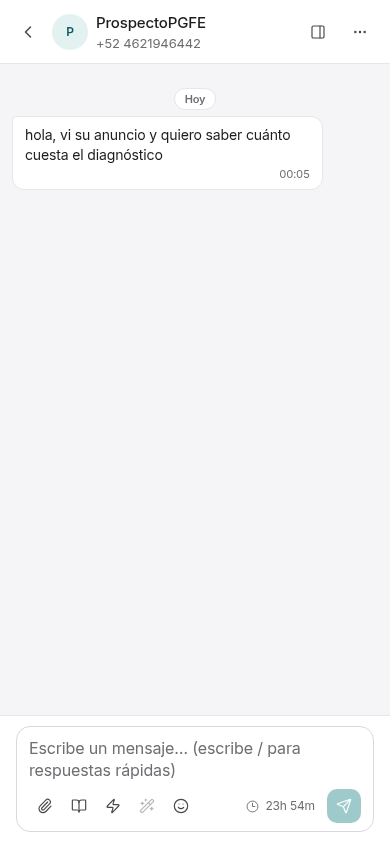
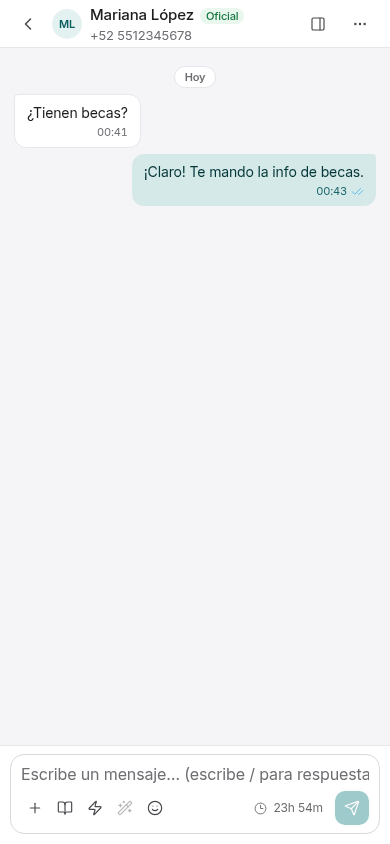
style: alinear móvil con la lámina 42 de ronda 3

diff --git a/src/app/globals.css b/src/app/globals.css
@@ -1133,7 +1133,7 @@ html[data-lite] .usage-modal { animation: none; }
    del scroll de mensajes; no se superpone a la navegación del cascarón. */
 @media (max-width: 767px) {
   .inbox-list-header .seg { flex-shrink: 1; }
-  .inbox-list-header .seg-item { padding-inline: 8px; font-size: 12px; }
+  .inbox-list-header .seg-item { height: 30px; padding-inline: 10px; font-size: 13px; }
   .inbox-list-header .btn-r3.ic { width: 32px; }
   .inbox-list-header > div:last-child { gap: 2px; }
   .inbox-filter-strip {
@@ -1146,14 +1146,36 @@ html[data-lite] .usage-modal { animation: none; }
     flex-shrink: 0;
     padding-block: 4px;
   }
-  .inbox-quick-filters > button { flex-shrink: 0; white-space: nowrap; }
+  .inbox-quick-filters > button {
+    height: 28px;
+    flex-shrink: 0;
+    white-space: nowrap;
+    border-style: dashed;
+    font-size: 13px;
+  }
+  .inbox-quick-filters > button[aria-pressed="true"] {
+    border-style: solid;
+    border-color: var(--accent-soft);
+    background: var(--accent-wash);
+  }
+  .inbox-row [data-row-main] { padding-top: 12px; }
+  .inbox-row [data-row-main] + div { padding-top: 6px; padding-bottom: 12px; }
   .inbox-row [data-row-preview] { color: var(--text-3); }
-  [data-pm="chat-head"] { gap: 8px; padding-inline: 12px; }
+  [data-pm="chat-head"] { position: relative; height: 48px; gap: 8px; padding-inline: 12px; }
+  [data-pm="chat"] .thread-bg { padding: 14px; }
+  .mobile-chat-avatar { width: 30px; height: 30px; font-size: 11px; }
+  [data-pm="chat-head"] span:has(> [data-testid="chat-mode-chip"]) { position: static; }
+  [data-pm="chat-head"] [data-testid="chat-mode-picker"] { left: 12px; right: 12px; width: auto; }
   [data-pm="chat-head"] > div > p:first-child { font-weight: 500; }
   [data-pm="composer"] {
     flex-shrink: 0;
-    padding-bottom: max(12px, env(safe-area-inset-bottom));
+    padding: 8px 10px max(10px, env(safe-area-inset-bottom));
   }
+  [data-pm="composer"] .composer-box { padding: 8px 10px; }
+  [data-pm="composer"] textarea:placeholder-shown { white-space: nowrap; }
+  [data-pm="composer"] .composer-tools { margin-top: 6px; }
+  [data-pm="composer"] .composer-tools button { padding-inline: 6px; }
+  .mobile-tabbar > :is(a, button) { min-height: 60px; }
 }
 
 /* Más y Ajustes: listas verticales con el mismo margen a ambos lados.
@@ -1195,6 +1217,7 @@ html[data-lite] .usage-modal { animation: none; }
     font-weight: 500;
     white-space: normal;
   }
+  .mobile-settings-page { min-height: 100%; background: var(--surface-base); }
   [data-premium-area="settings"] { gap: 24px; }
 }
 @media (max-width: 639px) {

diff --git a/src/components/inbox/composer.tsx b/src/components/inbox/composer.tsx
@@ -9,6 +9,7 @@ import {
   FileText,
   MapPin,
   Paperclip,
+  Plus,
   Send,
   Smile,
   UserRound,
@@ -701,7 +702,7 @@ export function Composer({
             rewriting && "animate-pulse opacity-50"
           )}
         />
-        <div className="mt-2 flex items-center gap-0.5">
+        <div className="composer-tools mt-2 flex items-center gap-0.5">
           {/* Un solo clip: archivo, contacto y ubicación viven en su menú. */}
           <div ref={attachRef} className="relative">
             <button
@@ -723,7 +724,8 @@ export function Composer({
                 transition={SPRING}
                 className="flex"
               >
-                <Paperclip className="h-4 w-4" strokeWidth={1.75} />
+                <Paperclip className="hidden h-4 w-4 md:block" strokeWidth={1.75} />
+                <Plus className="h-4 w-4 md:hidden" strokeWidth={1.75} />
               </m.span>
             </button>
             <AnimatePresence>

diff --git a/src/components/inbox/inbox-client.tsx b/src/components/inbox/inbox-client.tsx
@@ -745,7 +745,7 @@ export function InboxClient({
                 >
                   <ChevronLeft className="h-5 w-5" strokeWidth={1.8} />
                 </button>
-                <ContactAvatar name={contactLabel(selected.contact)} seed={selected.contact.id} size="md" />
+                <ContactAvatar name={contactLabel(selected.contact)} seed={selected.contact.id} size="md" className="mobile-chat-avatar" />
                 <div className="min-w-0 flex-1">
                   <p className="flex min-w-0 items-center gap-1.5 text-[15px] font-semibold leading-5">
                     {multiChannel && <ChannelBadge channel={selected.channel} />}

diff --git a/src/components/settings/settings-nav.tsx b/src/components/settings/settings-nav.tsx
@@ -216,7 +216,7 @@ export function SettingsShell({
   );
 
   return (
-    <PageShell title="Ajustes" icon={Settings} pillar={false} actions={search}>
+    <PageShell title="Ajustes" icon={Settings} pillar={false} actions={search} className="mobile-settings-page">
       <div data-premium-area="settings" className="grid gap-6 lg:grid-cols-[220px_minmax(0,1fr)]">
         <nav aria-label="Secciones de Ajustes" className="settings-sections lg:sticky lg:top-0 lg:self-start">
           {shown.length === 0 && <p className="px-2 py-3 text-sm text-text-3">Ningún ajuste coincide con «{query}».</p>}

diff --git a/docs/capturas/t2-movil/comparacion-bandeja.html b/docs/capturas/t2-movil/comparacion-bandeja.html
@@ -1,0 +1,1 @@
+<!doctype html><meta charset="utf-8"><style>*{box-sizing:border-box}body{margin:0;padding:16px;background:#f5f5f7;font:14px system-ui;color:#1d1d1f}.pair{display:flex;gap:16px}figure{margin:0}figcaption{height:32px;font-weight:500}img{display:block;width:390px;height:844px}</style><div class="pair"><figure><figcaption>Referencia · ronda 3, lámina 42 · 390 px</figcaption><img src="referencia-bandeja-390.png"></figure><figure><figcaption>Dashfort · implementación · 390 px</figcaption><img src="bandeja-390.png"></figure></div>

diff --git a/docs/capturas/t2-movil/comparacion-chat.html b/docs/capturas/t2-movil/comparacion-chat.html
@@ -1,0 +1,1 @@
+<!doctype html><meta charset="utf-8"><style>*{box-sizing:border-box}body{margin:0;padding:16px;background:#f5f5f7;font:14px system-ui;color:#1d1d1f}.pair{display:flex;gap:16px}figure{margin:0}figcaption{height:32px;font-weight:500}img{display:block;width:390px;height:844px}</style><div class="pair"><figure><figcaption>Referencia · ronda 3, lámina 42 · 390 px</figcaption><img src="referencia-chat-390.png"></figure><figure><figcaption>Dashfort · implementación · 390 px</figcaption><img src="chat-390.png"></figure></div>

diff --git a/docs/capturas/t2-movil/README.md b/docs/capturas/t2-movil/README.md
@@ -1,37 +1,62 @@
-# T2 · revisión móvil
+# T2 · móvil Clásico y claro
 
-Capturas de la aplicación real a **390 × 844 px**, escala 1, interfaz y chat
-**Clásico**, tema **Claro**. Base local de demostración y proveedores simulados;
-no hay datos de clientes ni conexiones de producción.
+Referencia principal: [ronda 3, lámina 42: Celular · Bandeja, chat y Avisos](../../maquetas/ronda3/42-movil.png), confirmada por la imagen aportada en la revisión.
+También se consultaron el [PDF](../../maquetas/ronda3/dashfort-redisenio-ronda3.pdf),
+[el prototipo de ronda 3](../../maquetas/ronda3/prototipo-ronda3.html),
+[movil-despues.png](../../maquetas/movil-despues.png),
+[sus notas](../../maquetas/movil-despues-notas.png) y
+[el prototipo Clásico claro](../../maquetas/prototipo-clasico-claro.html).
 
-| Vista | Captura a 390 px | Referencia |
-| --- | --- | --- |
-| Lista de chats | ![Bandeja](bandeja-390.png) | Pendiente de recibir `movil-despues.png` |
-| Chat | ![Chat](chat-390.png) | Pendiente de recibir `movil-despues.png` |
-| Opciones del chat | ![Ver historial](chat-menu-390.png) | Pendiente de recibir `movil-despues-notas.png` |
-| Más | ![Más](mas-390.png) | Pendiente de recibir las maquetas |
-| Ajustes | ![Ajustes](ajustes-390.png) | Pendiente de recibir las maquetas y el PDF de ronda 3 |
+Las referencias siguientes se renderizan desde el HTML original a **390 × 844 px**,
+sin el marco del teléfono ni la barra de estado del sistema. La aplicación se
+captura a esa misma medida y escala 1, con interfaz y chat **Clásico**, tema
+**Claro**, base local de demostración y proveedores simulados. Los nombres,
+mensajes, cantidades y módulos de la demostración difieren de la maqueta.
 
-Las rutas de referencia indicadas en T2 no existen en el checkout de `main`:
-`auditoria-diseno/maquetas/`, `maquetas/ronda3/` y
-`prototipo-clasico-claro.html`. Esta tabla **no certifica fidelidad a las maquetas**;
-falta colocar cada referencia junto a su captura y ajustar las diferencias.
+| Referencia · ronda 3, lámina 42 | Implementación · 390 px |
+| --- | --- |
+| ![Bandeja de referencia](referencia-bandeja-390.png) | ![Bandeja implementada](bandeja-390.png) |
+| ![Chat de referencia](referencia-chat-390.png) | ![Chat implementado](chat-390.png) |
 
-También falta resolver el chip **Grupos**: `main` no ofrece ese filtro en la
-Bandeja de clientes. T2 conserva la lógica actual y no incorpora la rama
-`feat/whatsapp-groups`.
+Comparaciones listas para revisar:
+[Bandeja](comparacion-bandeja-390.png) · [Chat](comparacion-chat-390.png).
+Se incluyen también las versiones HTML de ambas comparaciones.
 
-## Comprobación funcional
+| Guía visual | Captura móvil |
+| --- | --- |
+| [Conexión: etiqueta tenue junto al nombre y selector](../../maquetas/ronda3/02-conexion-opciones.png) | ![Selector de conexión](conexion-390.png) |
+| [Historial desde «⋯»](../../maquetas/ronda3/03-historial.png) | ![Opciones del chat](chat-menu-390.png) ![Historial](historial-390.png) |
+| [Navegación y tarjetas de ronda 3](../../maquetas/ronda3/01-bandeja.png) | ![Más](mas-390.png) |
+| [Listas y tarjetas de Ajustes](../../maquetas/ronda3/26-canales-conectar.png) | ![Ajustes](ajustes-390.png) |
 
-Con la app y los mocks locales encendidos:
+La lámina 42 no incluye pantallas móviles dedicadas para Más y Ajustes: se
+adaptan las listas y tarjetas del mismo sistema visual, con márgenes simétricos
+y ancho completo. Los destinos de la barra inferior siguen los de #211 y los
+módulos disponibles; no se sustituyen por los destinos ilustrativos de la lámina.
+Se mantienen los nombres accesibles y las acciones existentes, incluido el
+acceso a Detalles del encabezado.
+
+## Comprobaciones
+
+- Los cinco chips (Todos, No leídos, Míos, Campañas, Grupos) comparten una fila
+  con desplazamiento horizontal. Grupos utiliza el soporte integrado en #212 y
+  conserva la condición existente de Conexión directa habilitada.
+- [Estado del filtro Grupos](grupos-390.png).
+- El compositor vacío es compacto, conserva sus herramientas y queda dentro
+  de la pantalla. Los textos escritos pueden crecer y envolver normalmente.
+- El selector de conexión cabe en 390 px y «Ver historial» abre la actividad.
+- [Escritorio a 1440 px](escritorio-1440.png): las capturas son idénticas al
+  eliminar las reglas móviles de T2 ([resultado](verificacion-escritorio.txt)).
+
+Con la app LOCAL compilada, los mocks encendidos y el usuario e2e de la base de
+prueba, los comandos son:
 
 ```sh
 PLAYWRIGHT_CHROMIUM=/usr/bin/chromium node --env-file=.env scripts/e2e-responsive.mjs
+PLAYWRIGHT_CHROMIUM=/usr/bin/chromium node --env-file=.env scripts/capture-t2-mobile.mjs
 ```
 
-Recorre teléfono (390 px), tableta (820 px) y escritorio (1440 px), comprueba
-recortes, menú, búsqueda, chips, historial, compositor, detalles y temas.
-Las capturas del recorrido se generan en `scratch/responsive/`.
-
-[Captura de escritorio a 1440 px](escritorio-1440.png).
-[Comparación de escritorio con las reglas T2 eliminadas](verificacion-escritorio.txt).
+El segundo comando requiere Conexión directa habilitada en la organización de
+prueba para comprobar los cinco chips y la etiqueta de conexión. No siembra ni
+envía mensajes; solo accede a los datos de prueba y recorre la interfaz.
+`--references-only` permite regenerar únicamente las capturas del prototipo.
